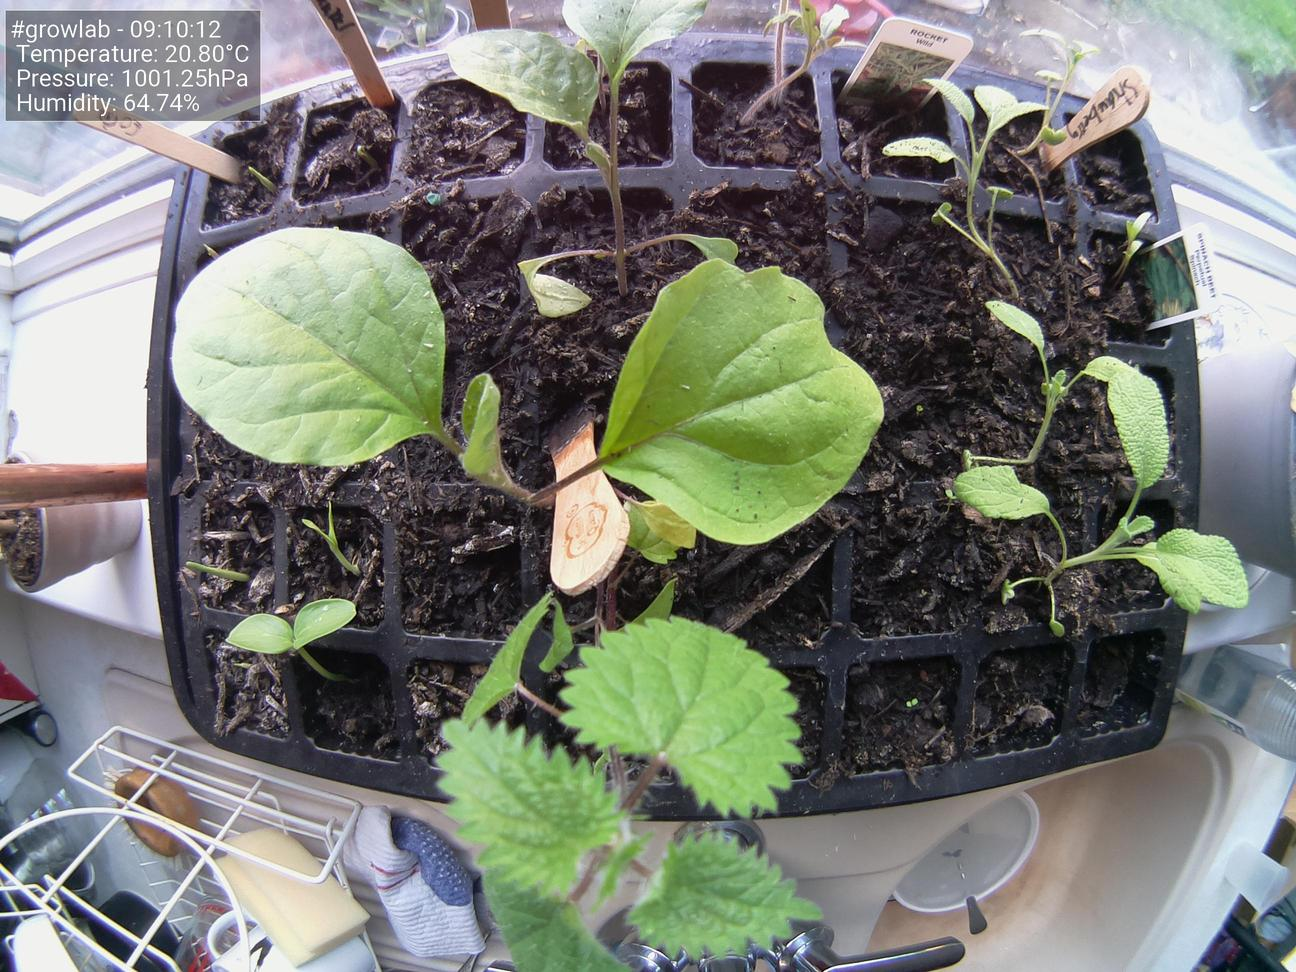
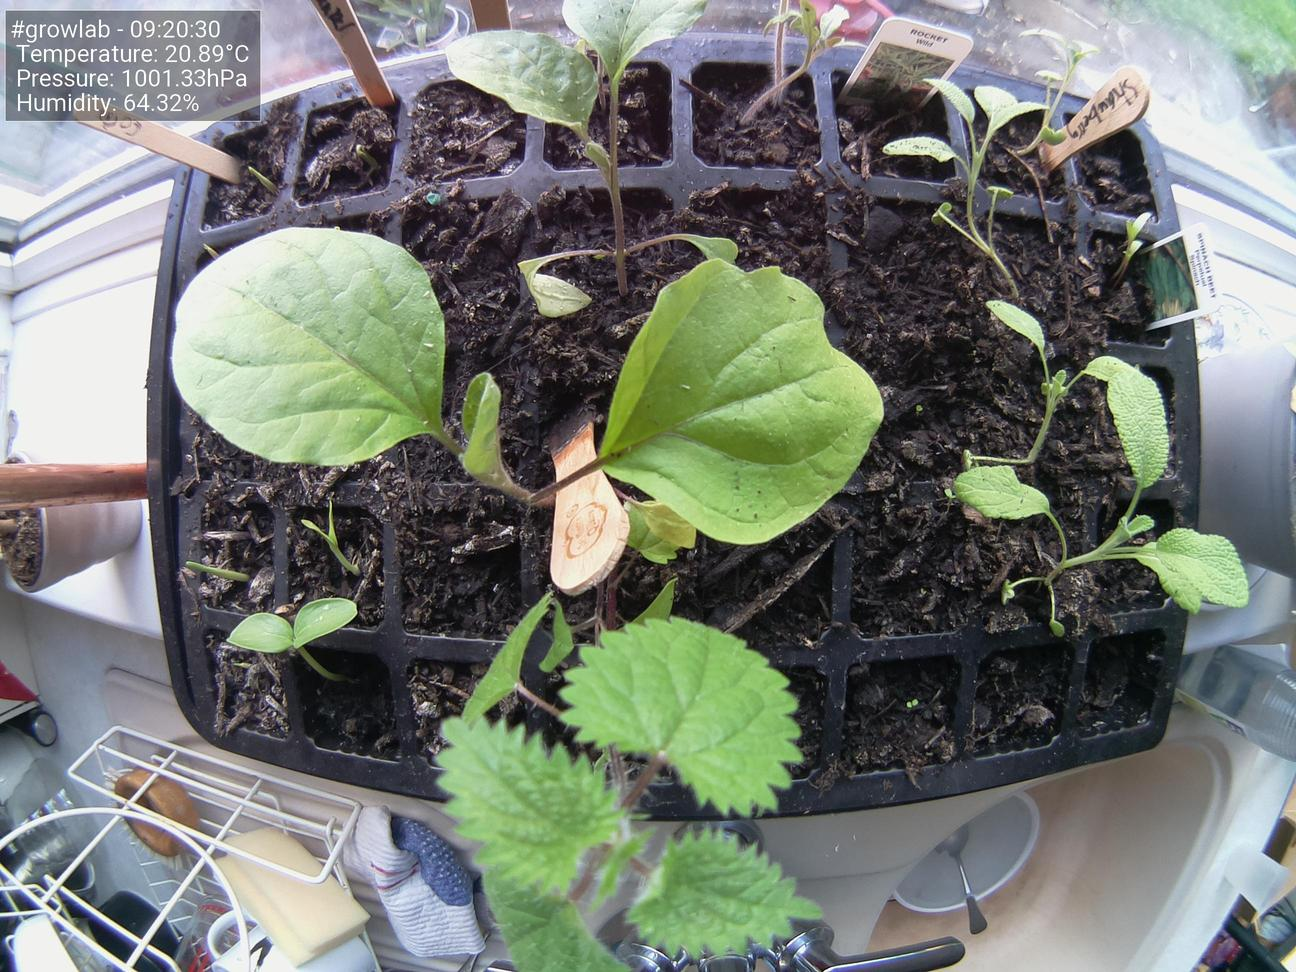
Update images at Mon 24 May 09:20:39 BST 2021

diff --git a/docs/index.html b/docs/index.html
@@ -47,19 +47,19 @@
                         <tbody>
                             <tr>
                                 <td>Time</td>
-                                <td>09:10:12</td>
+                                <td>09:20:30</td>
                             </tr>
                             <tr>
                                 <td>Temperature</td>
-                                <td>20.80°C</td>
+                                <td>20.89°C</td>
                             </tr>
                             <tr>
                                 <td>Humidity</td>
-                                <td>64.74%</td>
+                                <td>64.32%</td>
                             </tr>
                             <tr>
                                 <td>Pressure</td>
-                                <td>1001.25hPa</td>
+                                <td>1001.33hPa</td>
                             </tr>
                         </tbody>
                     </table>
@@ -67,7 +67,7 @@
 
                 <h5>Latest image</h5>
                 <div style="width: 85%;">
-                            <img class="figure-img img-fluid rounded" src="./preview.jpg?uid=1621843821.5267591">
+                            <img class="figure-img img-fluid rounded" src="./preview.jpg?uid=1621844439.3768802">
                 </div>
             </div>
         </div>
